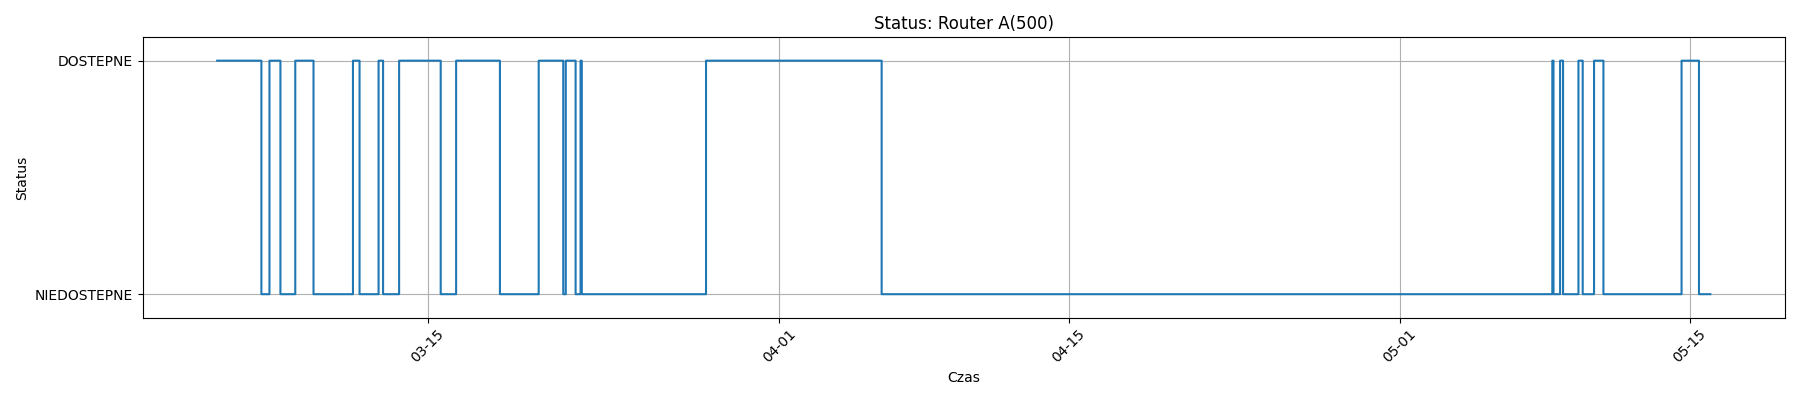
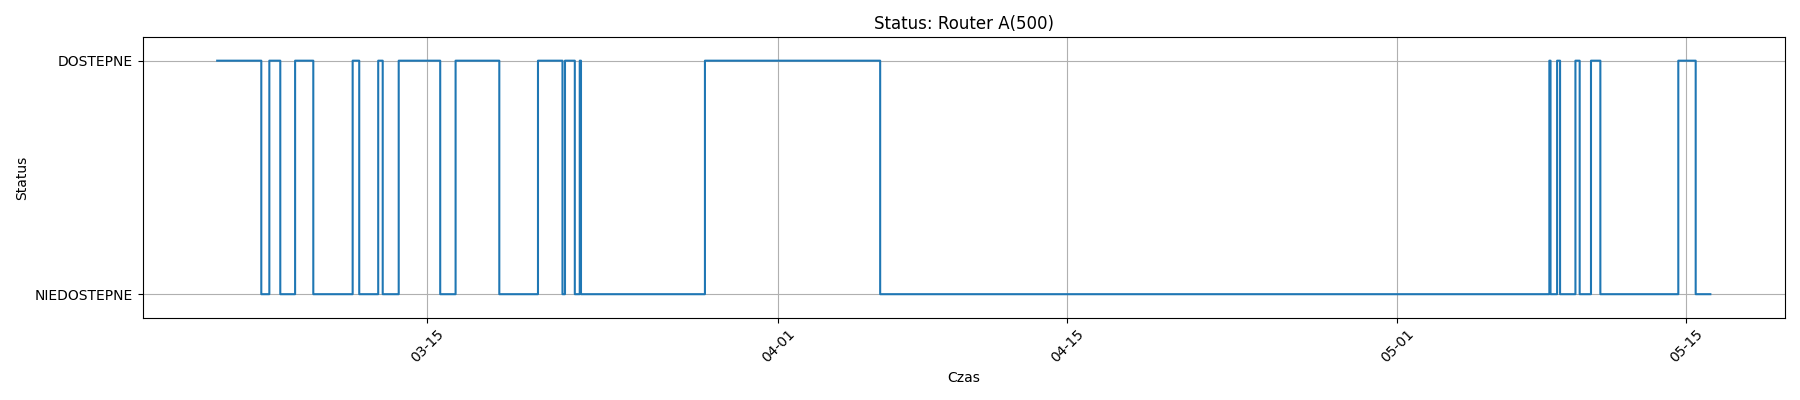
Automatyczna aktualizacja monitoringu

diff --git a/index.html b/index.html
@@ -33,5 +33,5 @@ img { border: 1px solid #ccc; border-radius: 8px; }
                 <div>Router C(300)</div>
                 <img src="chart_Router C(300).png" alt="Router C(300)" style="max-width:600px; margin-top:10px;">
             </div>
-            <p>Ostatnia zmiana: 2026-05-16 00:09:02</p>
+            <p>Ostatnia zmiana: 2026-05-16 04:00:31</p>
 </body></html>